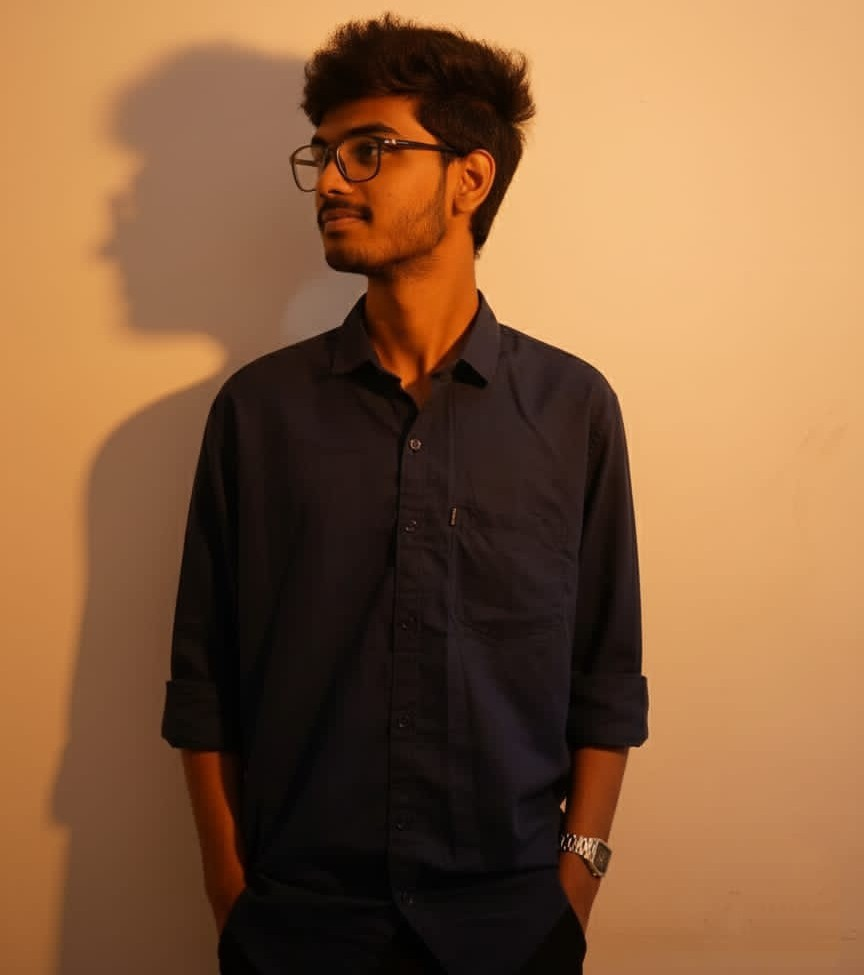
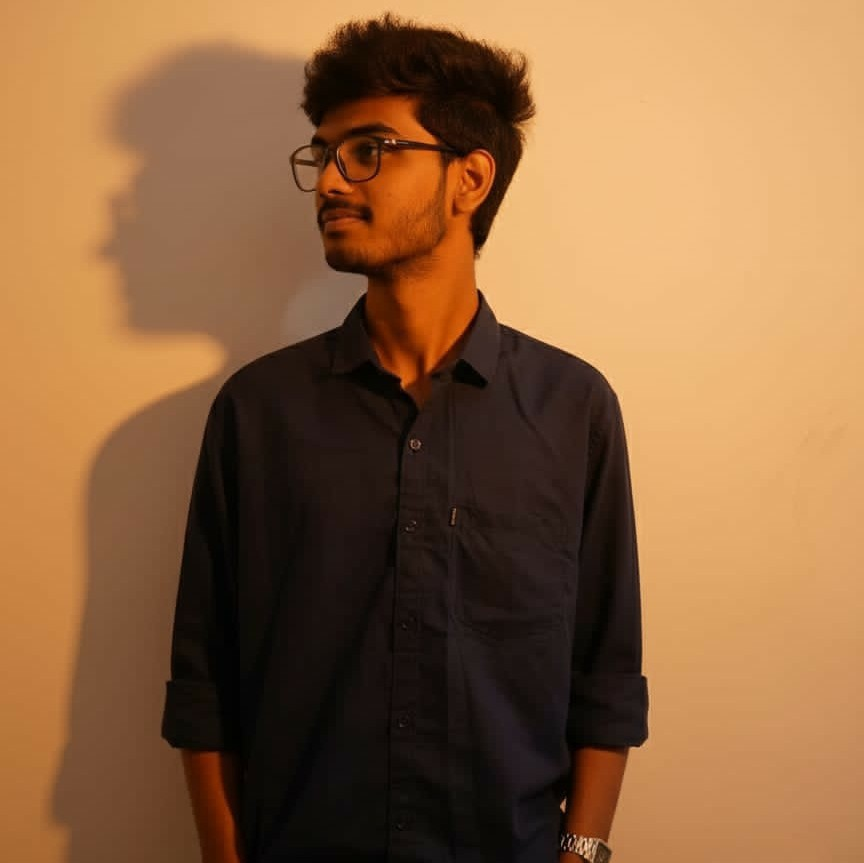
set image aspect ratio to 1:1

diff --git a/assets/css/main.css b/assets/css/main.css
@@ -62,6 +62,8 @@ a {
 img {
   width: min(100%, 480px);
   border-radius: .5rem;
+  aspect-ratio: 1/1;
+  object-fit: cover;
 }
 
 ul {
